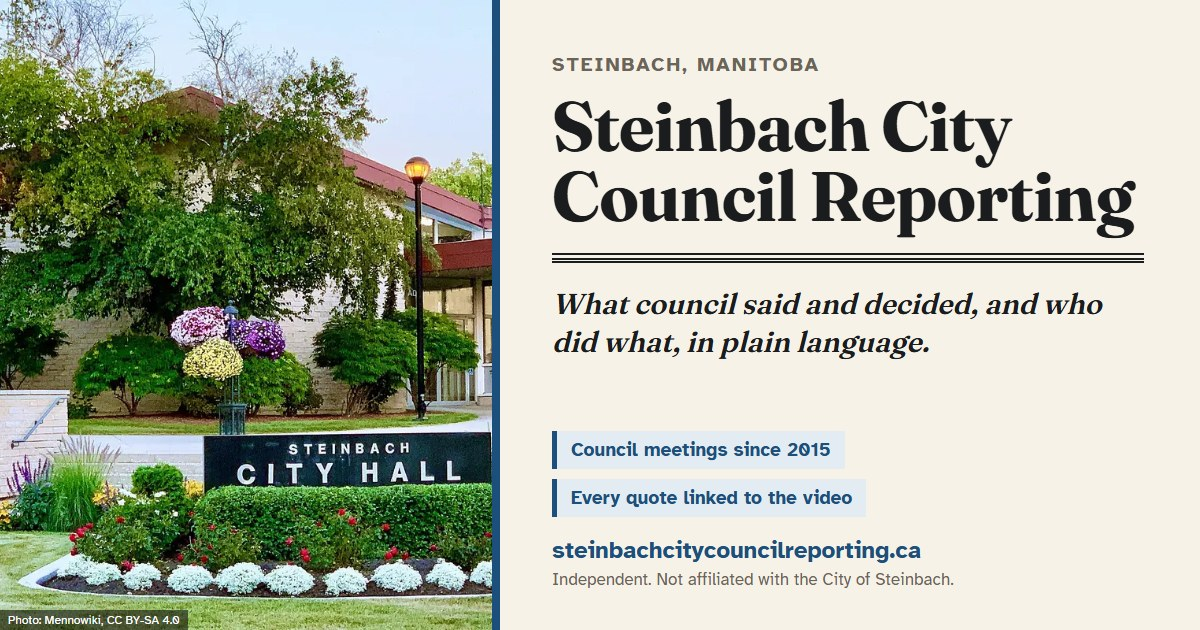
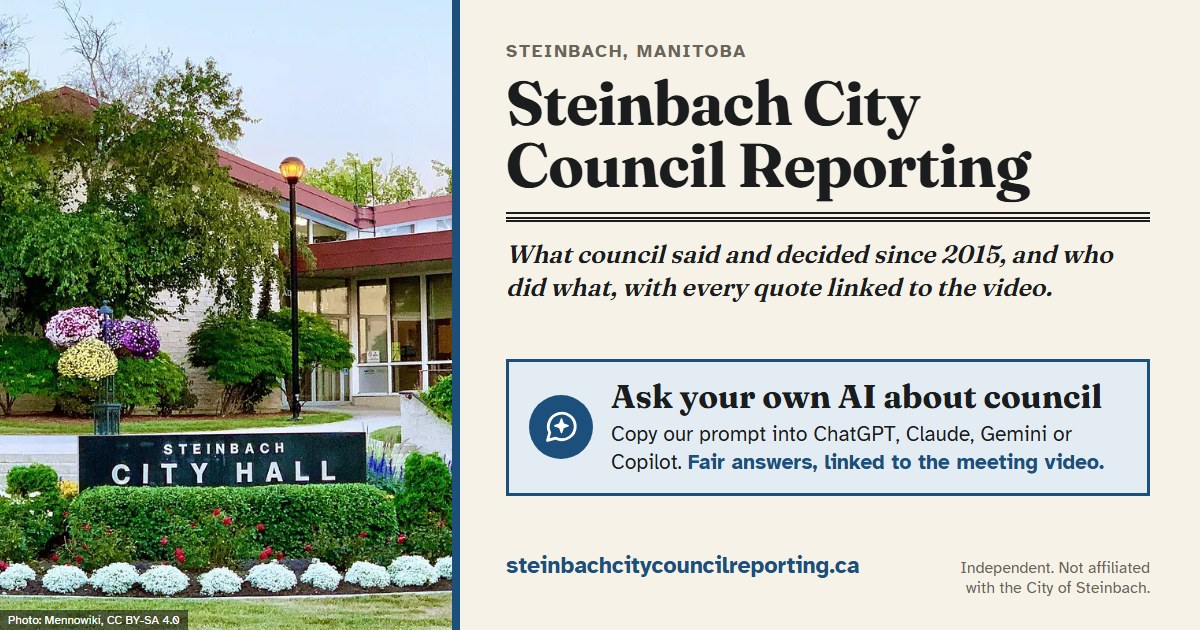
Link preview: feature Ask your own AI on the card; use it for the Ask your AI page too

diff --git a/ask-your-ai/index.html b/ask-your-ai/index.html
@@ -9,6 +9,13 @@
 <meta property="og:type" content="article">
 <meta property="og:title" content="Ask your own AI about council | Steinbach City Council Reporting">
 <meta property="og:description" content="A copy-ready prompt for fair, evidence-based answers, and the free transcripts for running your own AI agent.">
+<meta property="og:url" content="https://steinbachcitycouncilreporting.ca/ask-your-ai/">
+<meta property="og:site_name" content="Steinbach City Council Reporting">
+<meta property="og:image" content="https://steinbachcitycouncilreporting.ca/assets/img/og-card.jpg">
+<meta property="og:image:width" content="1200">
+<meta property="og:image:height" content="630">
+<meta property="og:image:alt" content="Steinbach City Hall beside the site name and a panel reading: Ask your own AI about council. Copy our prompt into ChatGPT, Claude, Gemini or Copilot.">
+<meta name="twitter:card" content="summary_large_image">
 <link rel="stylesheet" href="../assets/css/style.css">
 <script type="module" src="https://static.cloudflareinsights.com/beacon.min.js" data-cf-beacon='{"token": "b272c1e67f3f40dbb732c9b8f829218d"}'></script>
 <style>
